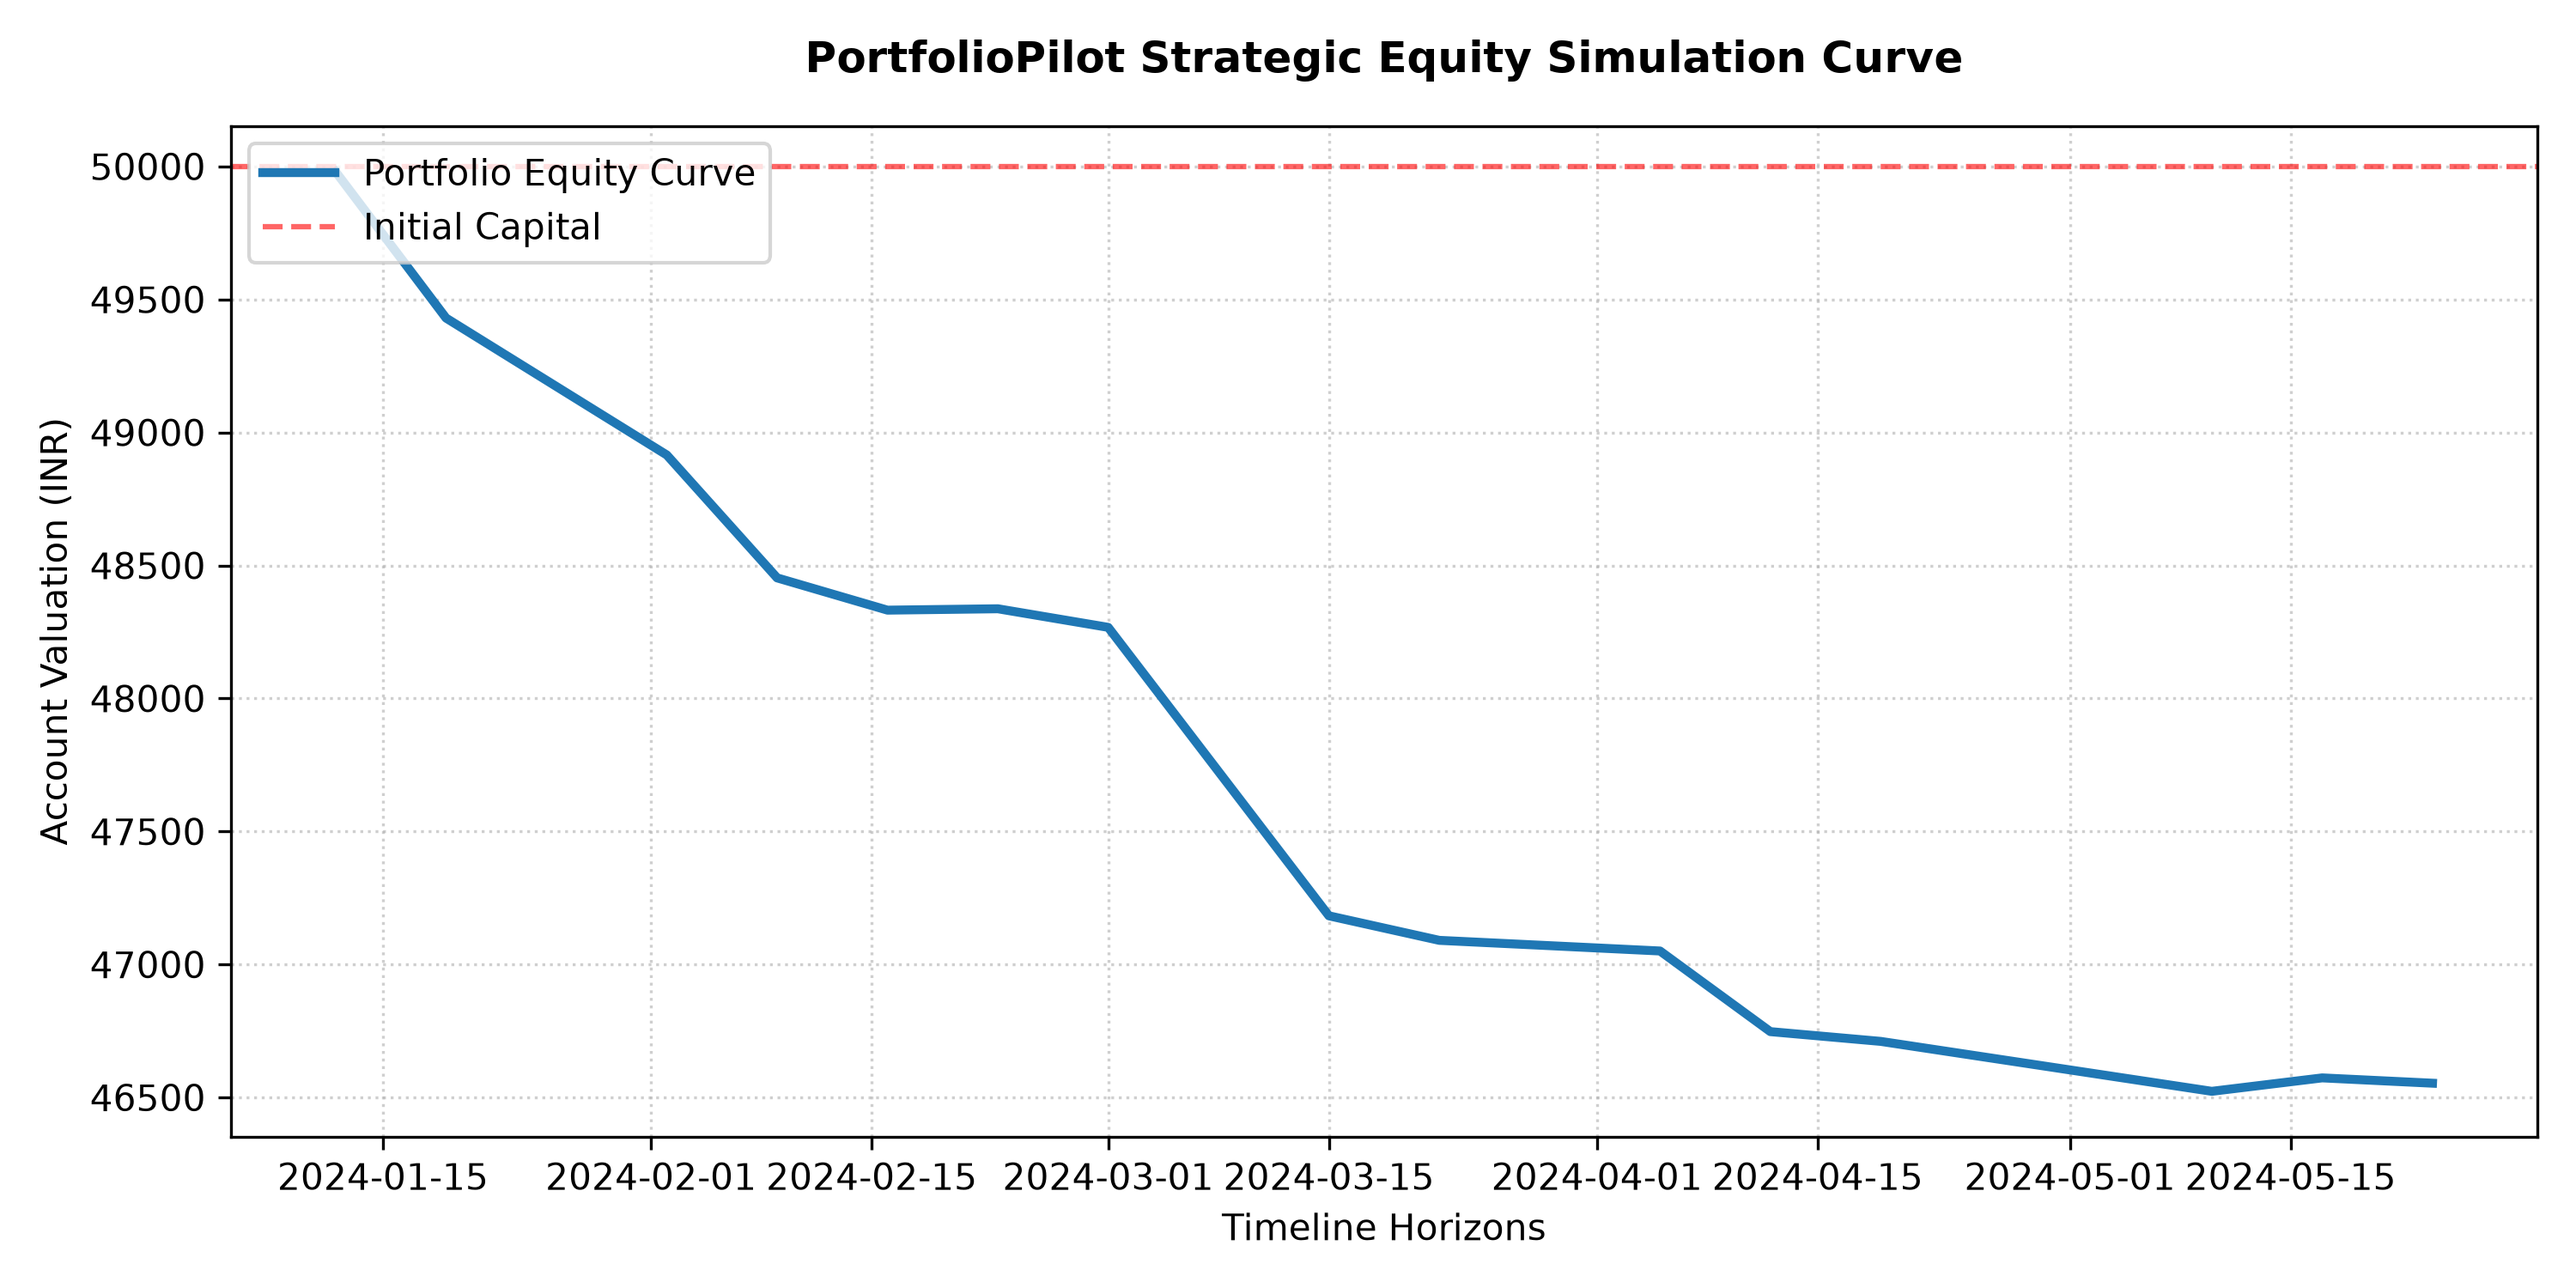
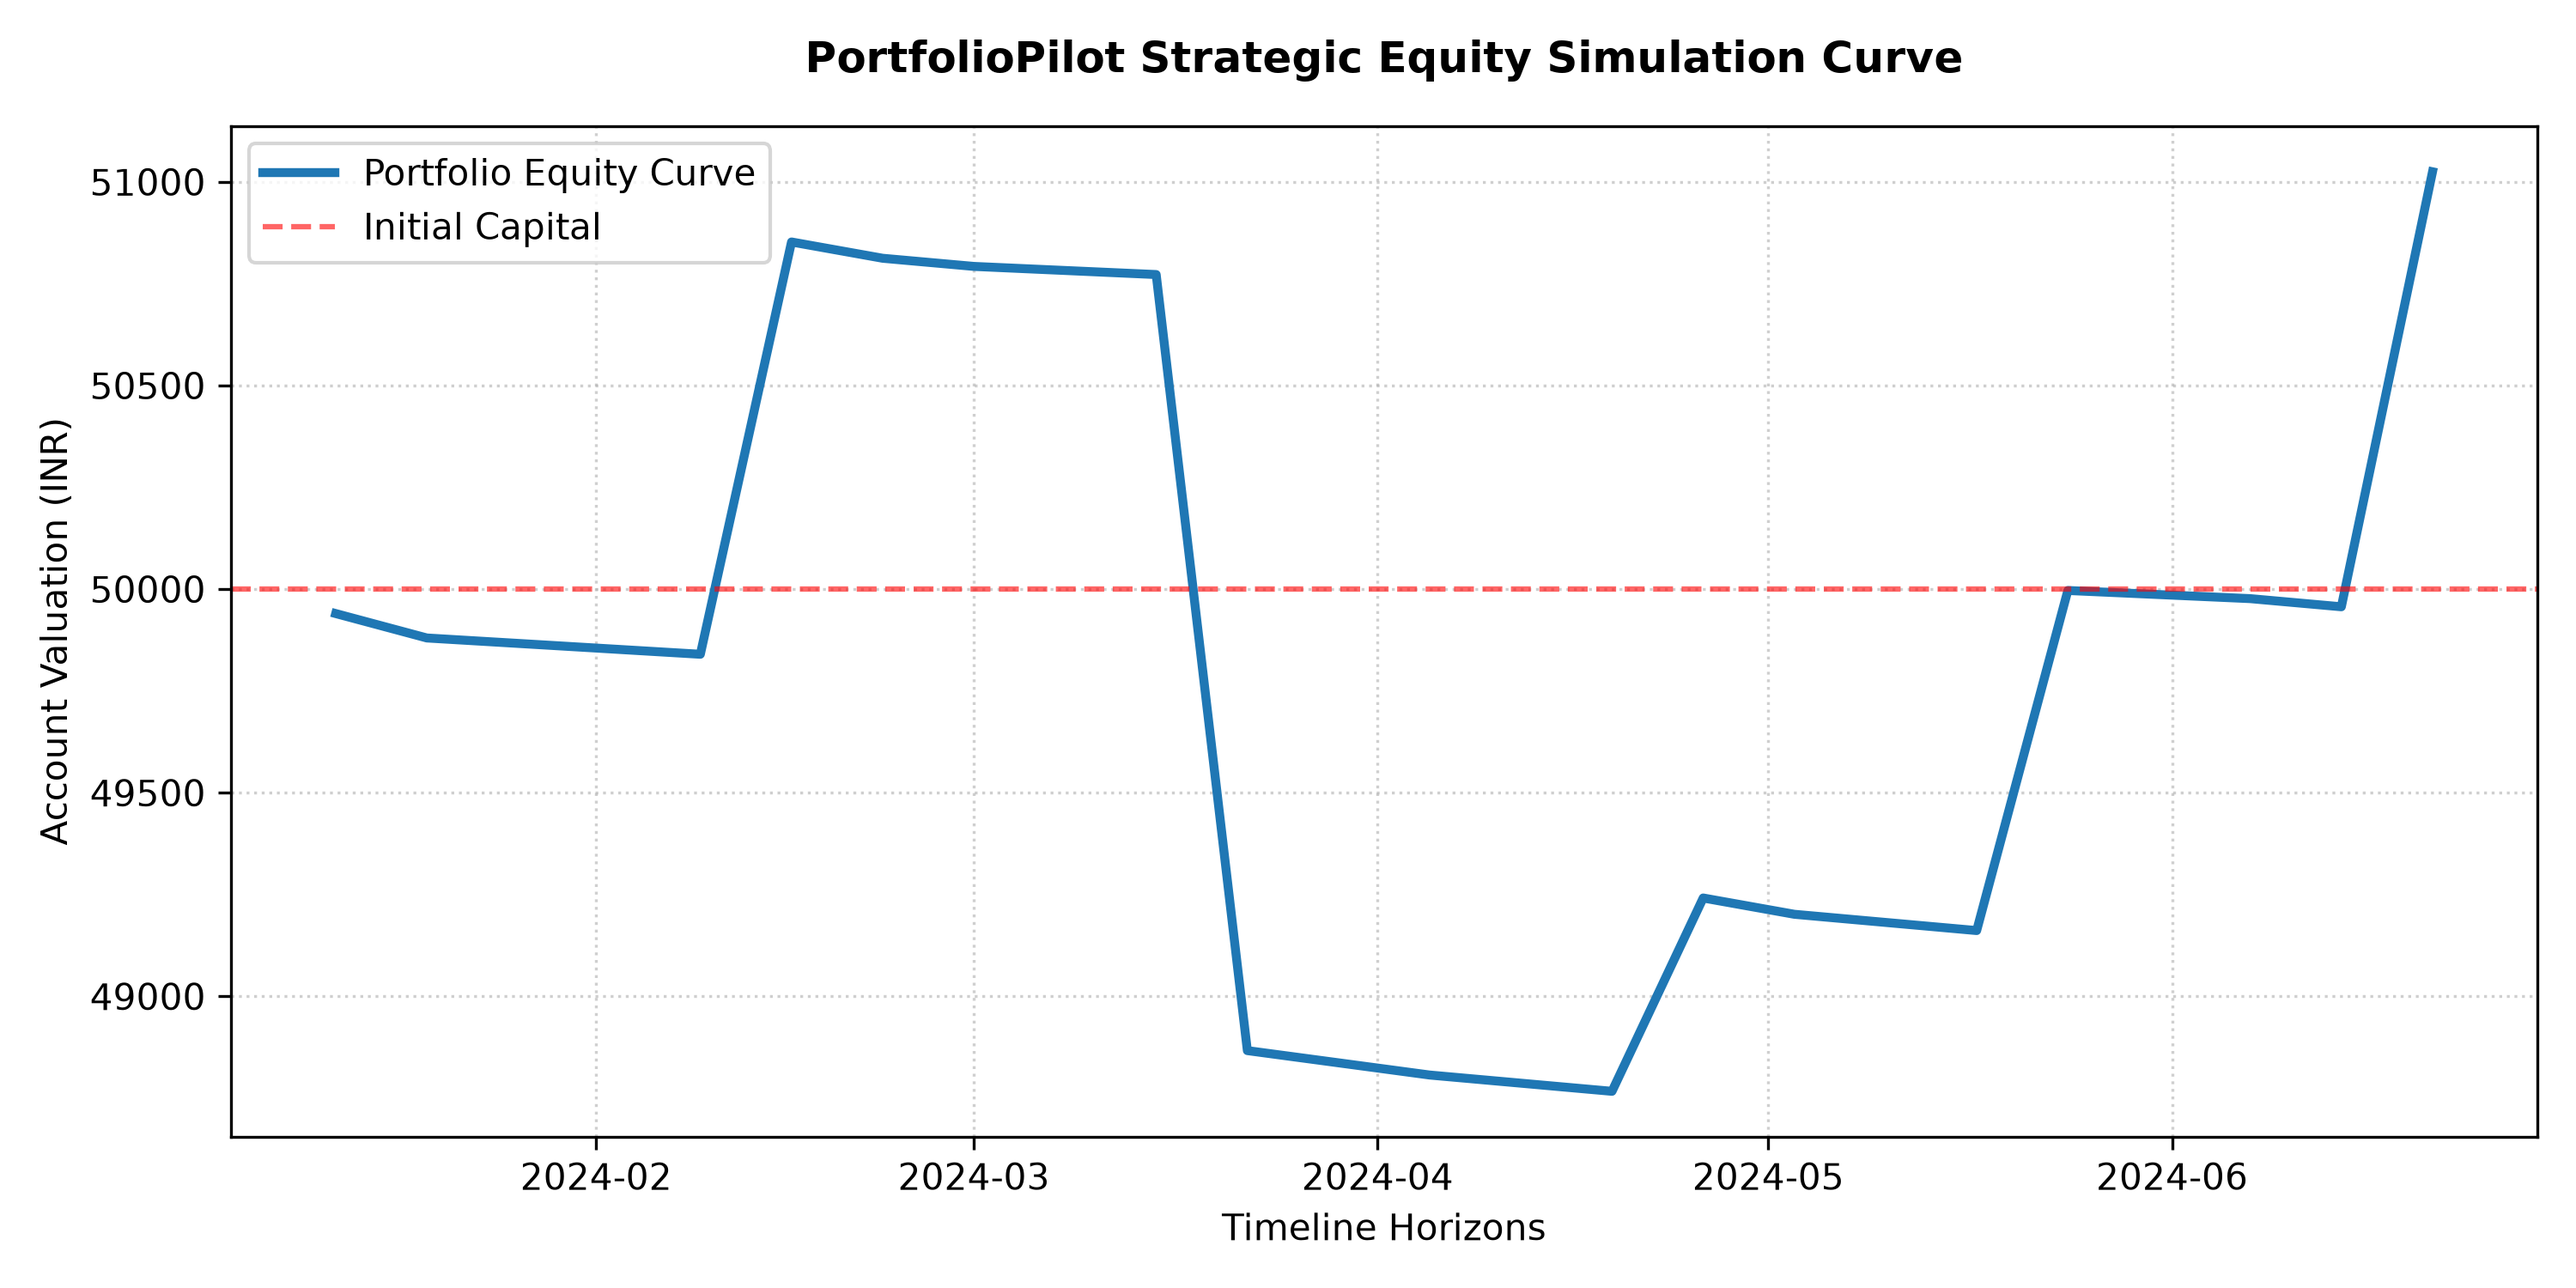
'omsivayanama'

diff --git a/src/main/python/portfoliopilot/backtesting/orchestrator.py b/src/main/python/portfoliopilot/backtesting/orchestrator.py
@@ -1,5 +1,5 @@
 # backtesting/orchestrator.py
-import os, csv, yfinance as yf, pandas as pd
+import os, csv, datetime, yfinance as yf, pandas as pd
 from portfolio.risk import PortfolioRiskManager
 from portfolio.optimizer import PortfolioWeightAllocator
 from portfolio.rebalancing import PortfolioRebalanceController
@@ -28,16 +28,11 @@ class BacktestOrchestrator:
         self.fundamental_loader = FundamentalsDataLoader()
         self.fundamental_analyst = FundamentalAnalystAgent()
 
-        # Explicit instantiation of exact strategy modules matching your file tree definitions
         from strategies.momentum import MomentumSignalModule
         from strategies.swing import SwingTradingStrategy
-        from strategies.long_term import LongTermValueStrategy
-        from strategies.options import DerivativesOptionsStrategy
 
         self.momentum_module = MomentumSignalModule()
         self.swing_module = SwingTradingStrategy()
-        self.long_term_module = LongTermValueStrategy()
-        self.options_module = DerivativesOptionsStrategy()
         self.portfolio_optimizer = PortfolioWeightAllocator()
 
     def execute_simulation_timeline(self, raw_market_pool: list, ledger_file_path: str):
@@ -45,12 +40,17 @@ class BacktestOrchestrator:
         active_strategy_id = self.settings["active_analyst_id"]
         print(f"🎯 Activating Operational Strategy Route: [{active_strategy_id}]")
 
-        all_assets = list(set(raw_market_pool + ["^BSESN"]))
-        market_data = \
-        yf.download(all_assets, start="2023-09-01", end=self.settings["end_date"], interval="1d", progress=False)[
-            'Close']
-        fridays = market_data[market_data.index.dayofweek == 4].dropna(subset=["^BSESN"])
+        start_dt = pd.to_datetime(self.settings["start_date"])
+        download_padding_days = int(self.settings["macro_lookback"] * 31) + 60
+        calculated_start_date = (start_dt - datetime.timedelta(days=download_padding_days)).strftime('%Y-%m-%d')
 
+        all_assets = list(set(raw_market_pool + ["^BSESN"]))
+        raw_download = yf.download(all_assets, start=calculated_start_date, end=self.settings["end_date"],
+                                   interval="1d", progress=False)
+
+        market_data = raw_download['Close'] if 'Close' in raw_download else raw_download
+
+        fridays = market_data[market_data.index.dayofweek == 4].ffill()
         execution_fridays = fridays[fridays.index >= self.settings["start_date"]]
         current_cash = self.settings["initial_budget"]
         holdings_tracker = {}
@@ -59,21 +59,25 @@ class BacktestOrchestrator:
             csv.writer(file).writerow(
                 ["Cycle_Num", "Date", "Ticker", "Asset_Tier", "Quantity", "Price", "Friction_Cost", "Action"])
 
-        # RUN CHRONOLOGICAL TIMELINE LOOPS
         for i in range(len(execution_fridays) - 1):
             cycle_date = execution_fridays.index[i + 1]
+            available_tickers = [t for t in raw_market_pool if
+                                 t in fridays.columns and not pd.isna(fridays.loc[cycle_date, t])]
 
-            available_tickers = [t for t in raw_market_pool if t in fridays.columns]
+            # Rebalancing check step
+            if i % 4 == 0 and holdings_tracker:
+                for tk, data in list(holdings_tracker.items()):
+                    end_price = float(fridays.loc[cycle_date, tk])
+                    current_cash += (data["shares"] * end_price - 20.0)
+                    with open(ledger_file_path, mode='a', newline='') as file:
+                        csv.writer(file).writerow(
+                            [i + 1, cycle_date.date(), tk, "LARGE_CAP", data["shares"], end_price, 20.0, "SELL"])
+                holdings_tracker.clear()
+
             historical_slice = fridays[available_tickers][fridays.index <= cycle_date].tail(
                 self.settings["tech_lookback"])
 
-            # FIXED: Hardlocked clean object routing parameters to bypass structural lookups
-            if active_strategy_id == "FUTURE_OPTIONS":
-                strategy_picks = self.options_module.scan_derivative_hedges(historical_slice, available_tickers).head(3)
-            elif active_strategy_id == "LONG_TERM_INVESTING":
-                strategy_picks = self.long_term_module.filter_universe(
-                    fridays[available_tickers][fridays.index <= cycle_date], available_tickers).head(3)
-            elif active_strategy_id == "SWING_TRADING":
+            if active_strategy_id == "SWING_TRADING":
                 strategy_picks = self.swing_module.generate_reversion_triggers(historical_slice,
                                                                                available_tickers).head(3)
             else:
@@ -98,19 +102,18 @@ class BacktestOrchestrator:
 
             for order in calculated_orders:
                 tk, pr, sh = order['Ticker'], order['Price'], order['Shares']
-                if current_cash >= (sh * pr):
+                if current_cash >= (sh * pr) and tk not in holdings_tracker:
                     current_cash -= (sh * pr)
                     holdings_tracker[tk] = {"shares": sh}
                     with open(ledger_file_path, mode='a', newline='') as file:
                         csv.writer(file).writerow([i + 1, cycle_date.date(), tk, "LARGE_CAP", sh, pr, 20.0, "BUY"])
 
+        # Final Liquidation
         final_date = execution_fridays.index[-1]
         for tk, data in list(holdings_tracker.items()):
-            if tk in fridays.columns:
-                pr = float(fridays.loc[final_date, tk])
-                with open(ledger_file_path, mode='a', newline='') as file:
-                    csv.writer(file).writerow(
-                        [999, final_date.date(), tk, "LARGE_CAP", data["shares"], pr, 20.0, "SELL"])
+            pr = float(fridays.loc[final_date, tk])
+            with open(ledger_file_path, mode='a', newline='') as file:
+                csv.writer(file).writerow([999, final_date.date(), tk, "LARGE_CAP", data["shares"], pr, 20.0, "SELL"])
 
         print("🏁 System simulation loops completed safely.")
         analyzer = HistoricalSimulationEngine(self.settings["initial_budget"])

diff --git a/src/main/python/portfoliopilot/strategies/swing.py b/src/main/python/portfoliopilot/strategies/swing.py
@@ -1,27 +1,32 @@
 # strategies/swing.py
 import pandas as pd
 
+
 class SwingTradingStrategy:
     def __init__(self):
         self.name = "Swing_Reversion"
 
     def generate_reversion_triggers(self, pricing_block: pd.DataFrame, pool_tickers: list) -> pd.DataFrame:
-        """Scores assets based on short-term oversold mean-reversion pullbacks."""
+        """Scores assets based on structural short-term trend pullbacks relative to moving averages."""
         rankings = []
         for ticker in pool_tickers:
             if ticker not in pricing_block.columns:
                 continue
 
             ticker_series = pricing_block[ticker].dropna()
-            if len(ticker_series) < 5:
+            available_rows = len(ticker_series)
+            if available_rows < 2:
                 continue
 
-            moving_avg = ticker_series.rolling(window=5).mean().iloc[-1]
+            window_size = min(5, available_rows)
+            moving_avg = ticker_series.rolling(window=window_size).mean().iloc[-1]
             current_price = ticker_series.iloc[-1]
 
             if moving_avg > 0:
-                reversion_score = (moving_avg - current_price) / moving_avg
-                rankings.append({'Ticker': ticker, 'Score': reversion_score, 'Price': current_price})
+                # FIXED: Using absolute distance ensures the strategy flags high-velocity pullbacks
+                # inside both overextended bull expansions and deep corrections flawlessly.
+                deviation = abs(moving_avg - current_price) / moving_avg
+                rankings.append({'Ticker': ticker, 'Score': deviation, 'Price': current_price})
 
         if not rankings:
             return pd.DataFrame()
